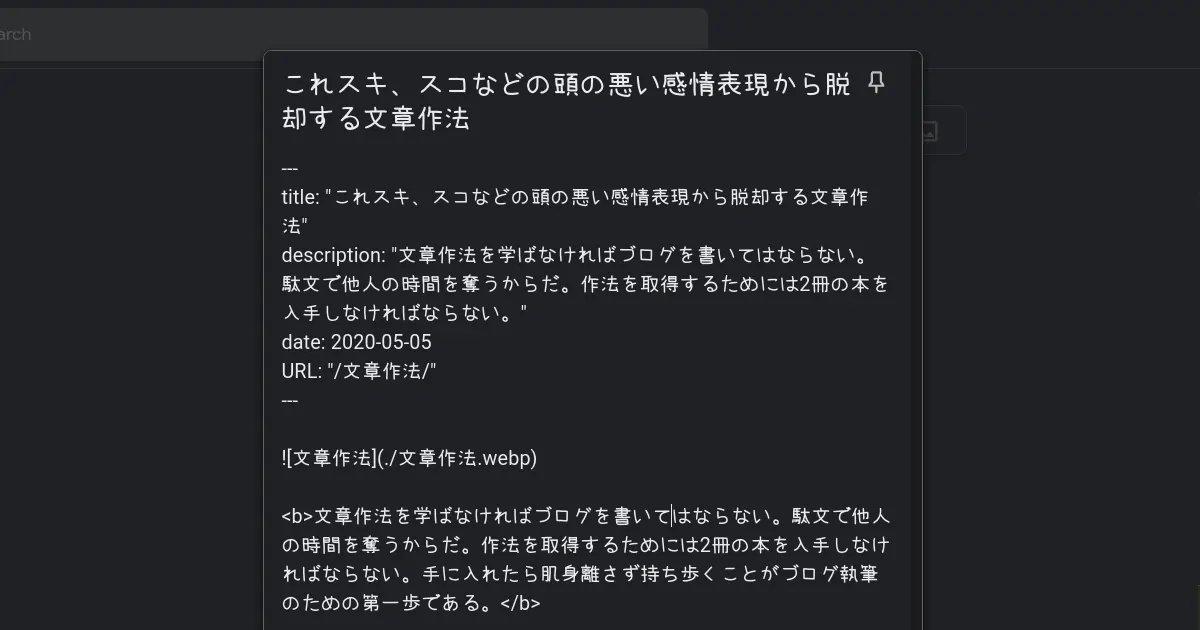
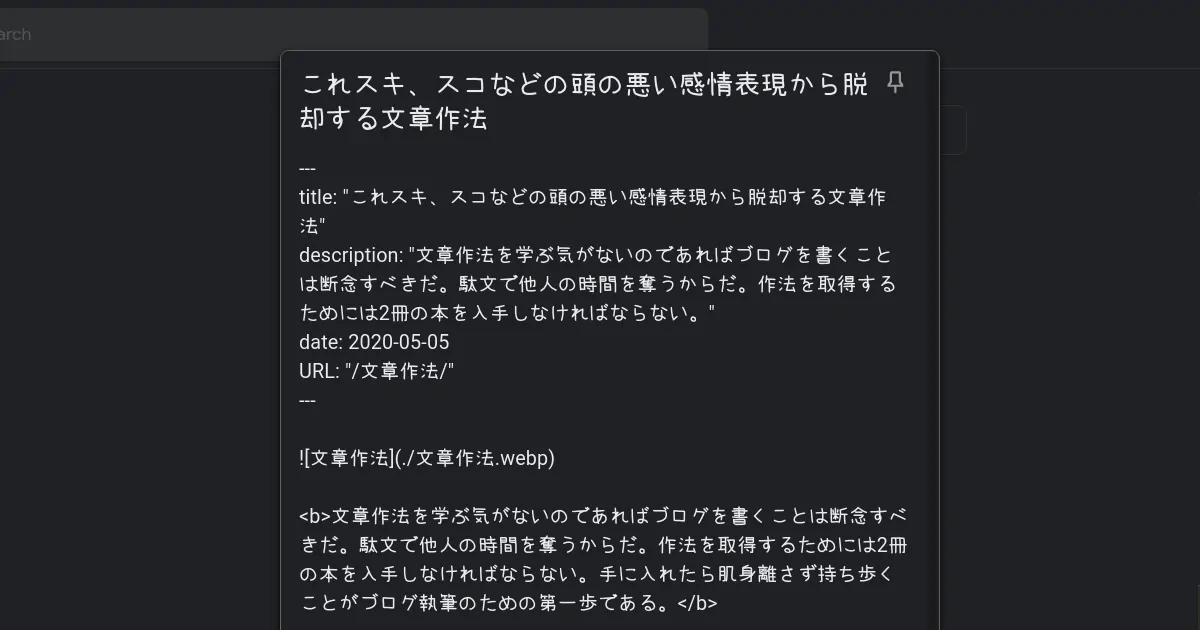
rebuilding site Tue  5 May 06:56:47 GMT 2020

diff --git a/docs/文章作法/index.html b/docs/文章作法/index.html
@@ -5,14 +5,14 @@
 	<meta http-equiv="X-UA-Compatible" content="IE=edge"><title>これスキ、スコなどの頭の悪い感情表現から脱却する文章作法 - ニク</title><meta name="viewport" content="width=device-width, initial-scale=1">
 
 	<meta property="og:title" content="これスキ、スコなどの頭の悪い感情表現から脱却する文章作法" />
-<meta property="og:description" content="文章作法を学ばなければブログを書いてはならない。駄文で他人の時間を奪うからだ。作法を取得するためには2冊の本を入手しなければならない。" />
+<meta property="og:description" content="文章作法を学ぶ気がないのであればブログを書くことは断念すべきだ。駄文で他人の時間を奪うからだ。作法を取得するためには2冊の本を入手しなければならない。" />
 <meta property="og:type" content="article" />
 <meta property="og:url" content="https://niku.page/%E6%96%87%E7%AB%A0%E4%BD%9C%E6%B3%95/" />
 <meta property="article:published_time" content="2020-05-05T00:00:00+00:00" />
 <meta property="article:modified_time" content="2020-05-05T00:00:00+00:00" />
 <meta name="twitter:card" content="summary"/>
 <meta name="twitter:title" content="これスキ、スコなどの頭の悪い感情表現から脱却する文章作法"/>
-<meta name="twitter:description" content="文章作法を学ばなければブログを書いてはならない。駄文で他人の時間を奪うからだ。作法を取得するためには2冊の本を入手しなければならない。"/>
+<meta name="twitter:description" content="文章作法を学ぶ気がないのであればブログを書くことは断念すべきだ。駄文で他人の時間を奪うからだ。作法を取得するためには2冊の本を入手しなければならない。"/>
 <link rel="stylesheet" type="text/css" media="screen" href="https://niku.page/css/normalize.css" />
 	<link rel="stylesheet" type="text/css" media="screen" href="https://niku.page/css/main.css" />
 	<link rel="stylesheet" type="text/css" media="screen" href="https://niku.page/css/all.css" />

diff --git a/docs/index.html b/docs/index.html
@@ -69,7 +69,7 @@
 								</h2>
 								<span class="description">
 									
-										文章作法を学ばなければブログを書いてはならない。駄文で他人の時間を奪うからだ。作法を取得するためには2冊の本を入手しなければならない。
+										文章作法を学ぶ気がないのであればブログを書くことは断念すべきだ。駄文で他人の時間を奪うからだ。作法を取得するためには2冊の本を入手しなければならない。
 									
 								</span>
 							</div>

diff --git a/docs/post/index.html b/docs/post/index.html
@@ -68,7 +68,7 @@
 						</h3>
 						<span class="description">
 							
-								文章作法を学ばなければブログを書いてはならない。駄文で他人の時間を奪うからだ。作法を取得するためには2冊の本を入手しなければならない。
+								文章作法を学ぶ気がないのであればブログを書くことは断念すべきだ。駄文で他人の時間を奪うからだ。作法を取得するためには2冊の本を入手しなければならない。
 							
 						</span>
 					</div>
